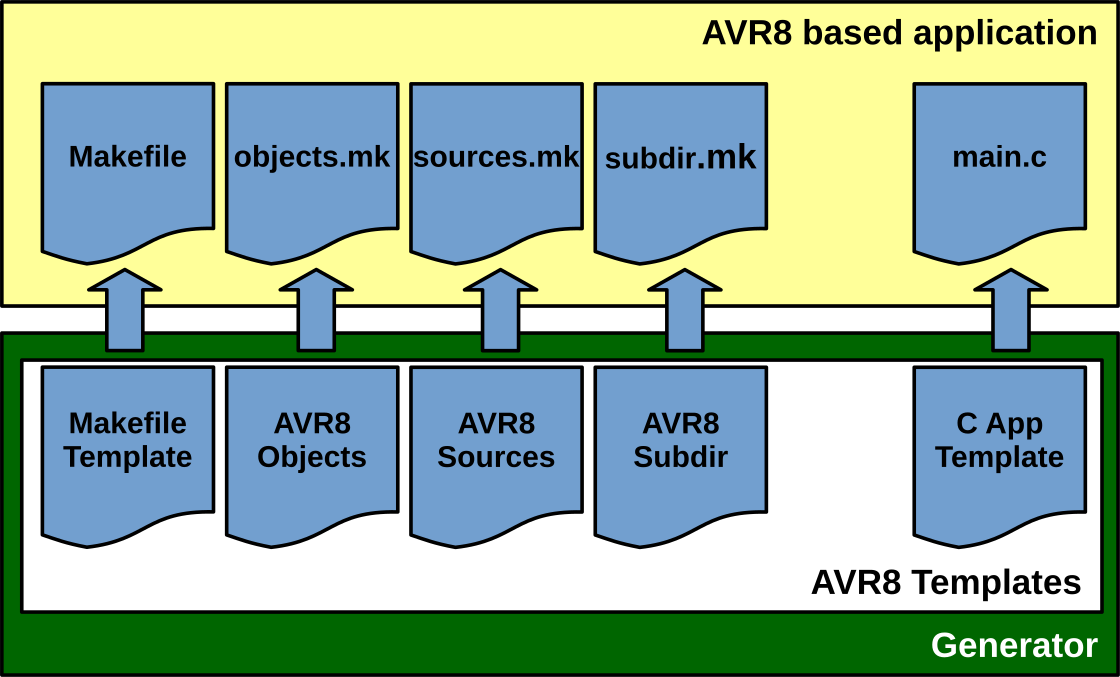
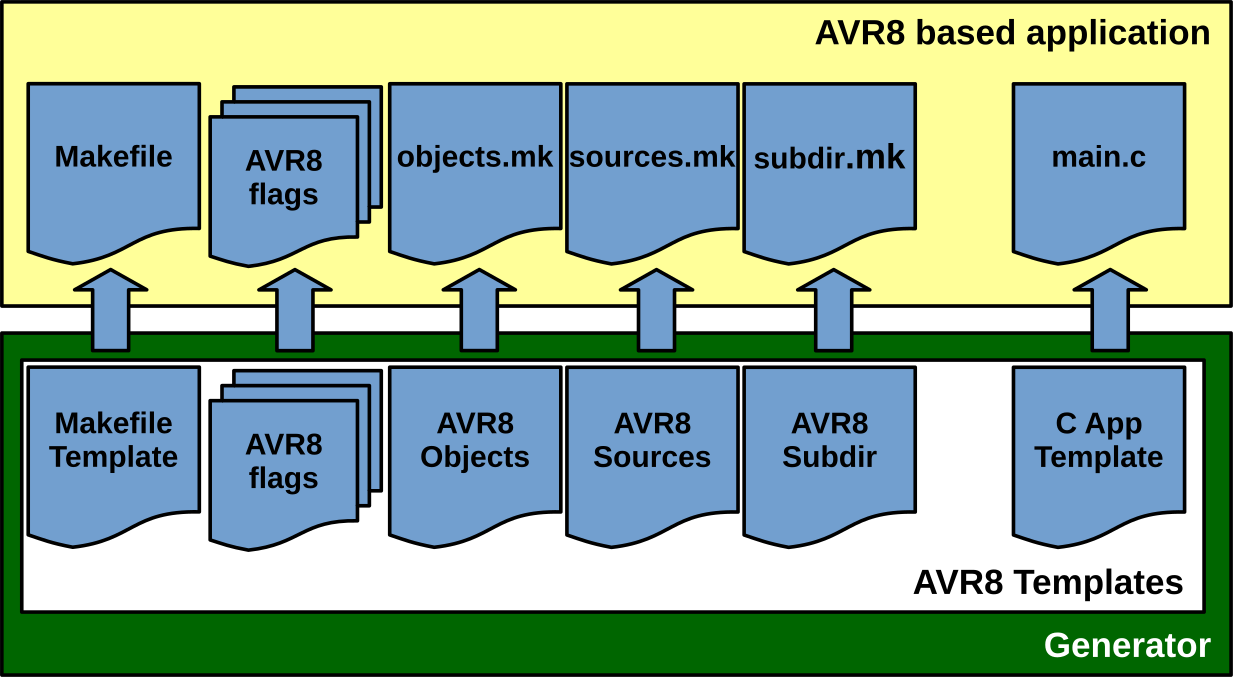
[gen_avr8] Refactored Makefile, updated docs

diff --git a/README.md b/README.md
@@ -99,9 +99,13 @@ Generator structure:
 │   ├── mcu.yaml
 │   ├── project.yaml
 │   └── template
+│       ├── cflags.template
+│       ├── csflags.template
 │       ├── Makefile.template
 │       ├── module.template
 │       ├── objects.template
+│       ├── ocflags.template
+│       ├── odflags.template
 │       ├── sources.template
 │       └── subdir.template
 └── log
